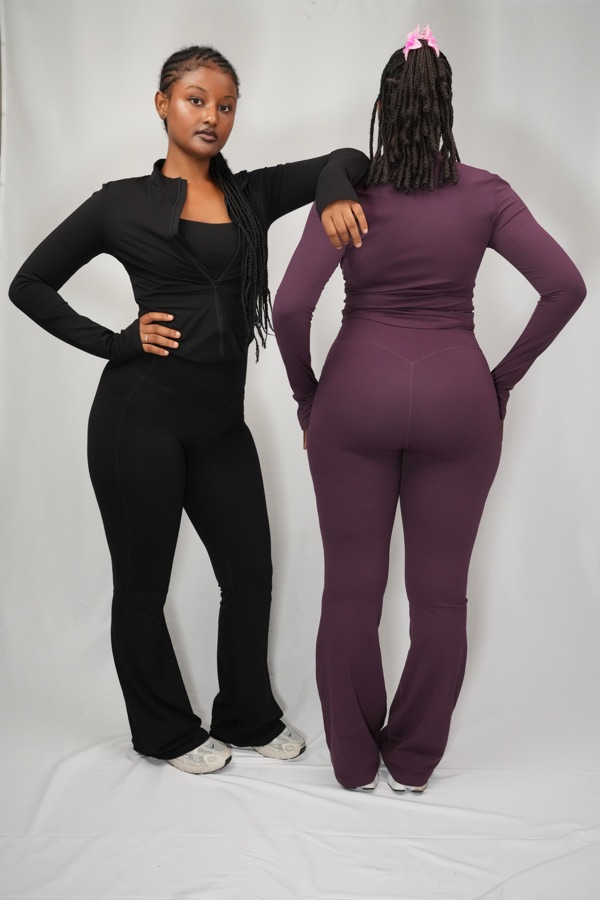
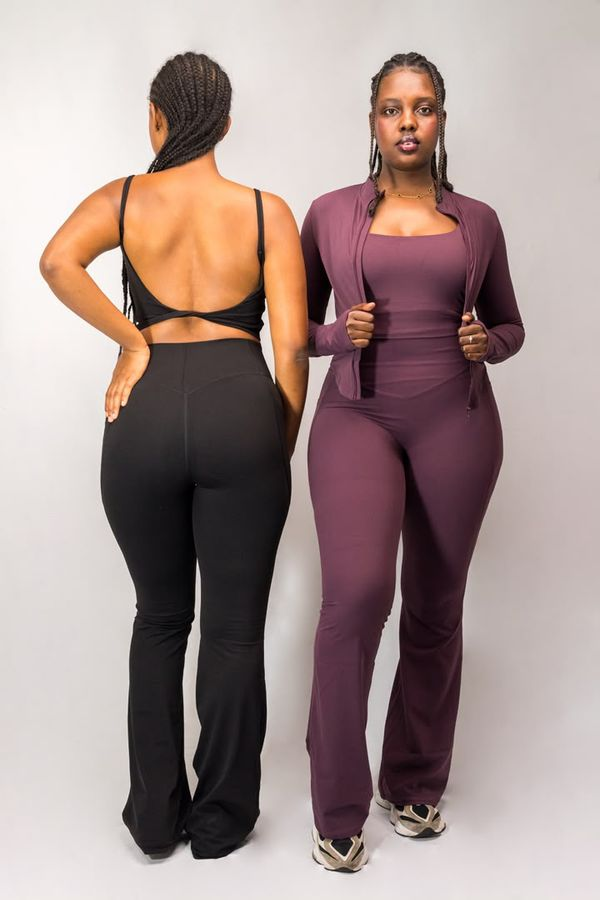
updated images

diff --git a/frontend/src/pages/about/AboutPage.tsx b/frontend/src/pages/about/AboutPage.tsx
@@ -78,18 +78,21 @@ const VALUES = [
 const STORE_PHOTOS = [
   {
     id: 1,
-    alt: 'Two women wearing Caddy flared leggings and fitted tops',
+    wide: 720,
+    alt: 'Two women wearing Caddy flared leggings, one in black and one in plum',
     className: 'row-span-2',
     position: 'object-center',
   },
   {
     id: 2,
+    wide: 1000,
     alt: 'Woman in a green Caddy set walking through the city',
     className: '',
     position: 'object-[50%_28%]',
   },
   {
     id: 3,
+    wide: 1000,
     alt: 'Woman in a red and white Caddy set with a wrap top',
     className: '',
     position: 'object-[50%_35%]',
@@ -257,7 +260,7 @@ export default function AboutPage() {
                 >
                   <Image
                     src={`/new-images/store/store-${photo.id}-600.jpg`}
-                    srcSet={`/new-images/store/store-${photo.id}-600.jpg 600w, /new-images/store/store-${photo.id}-1000.jpg 1000w`}
+                    srcSet={`/new-images/store/store-${photo.id}-600.jpg 600w, /new-images/store/store-${photo.id}-${photo.wide}.jpg ${photo.wide}w`}
                     sizes="(min-width: 1024px) 28vw, 45vw"
                     alt={photo.alt}
                     fill
